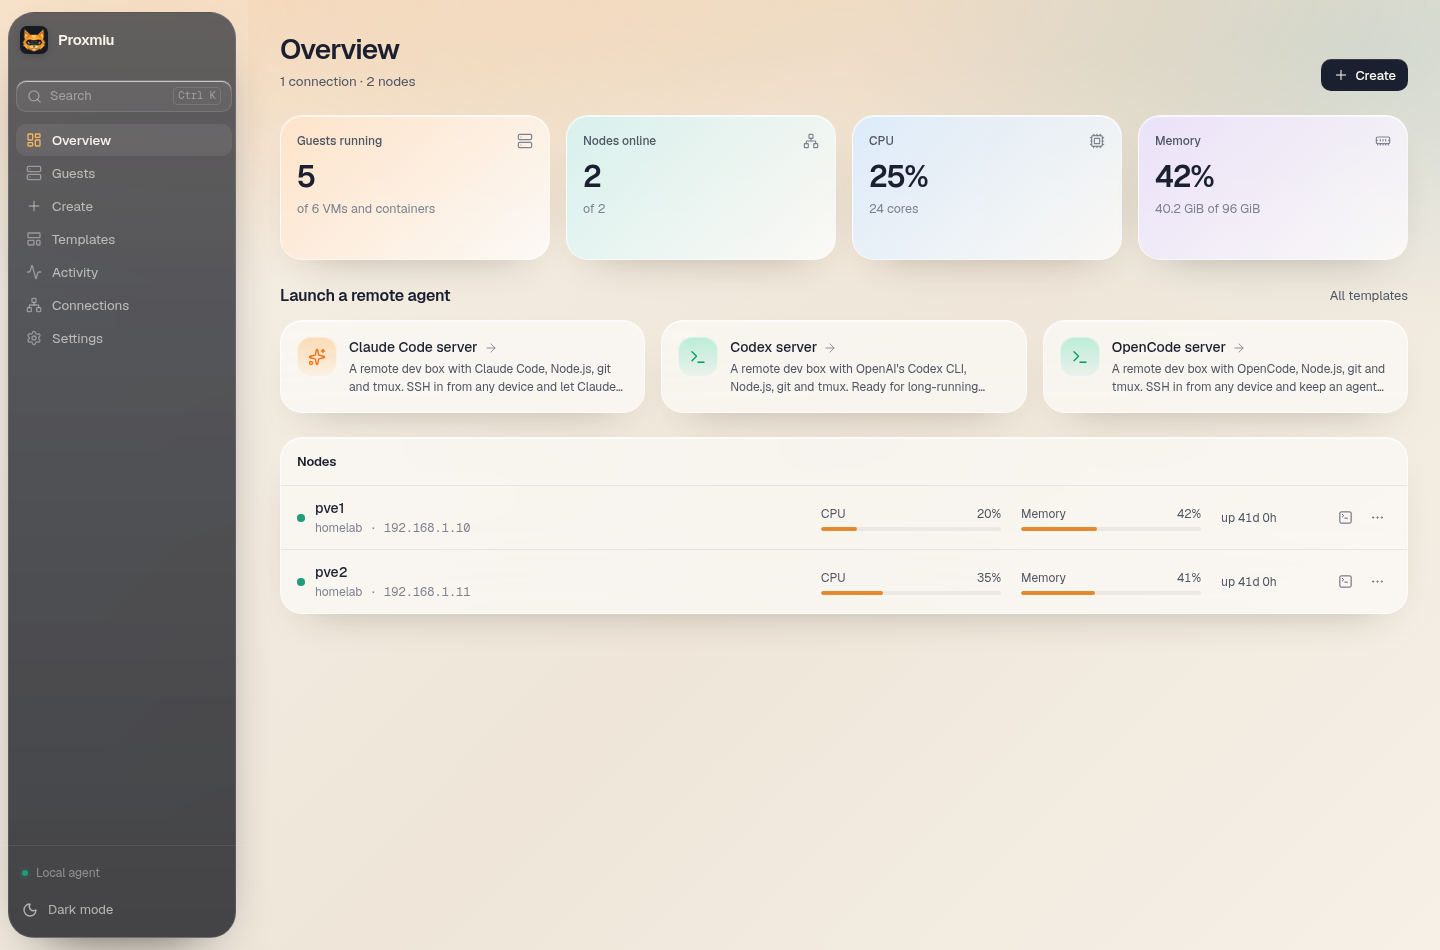
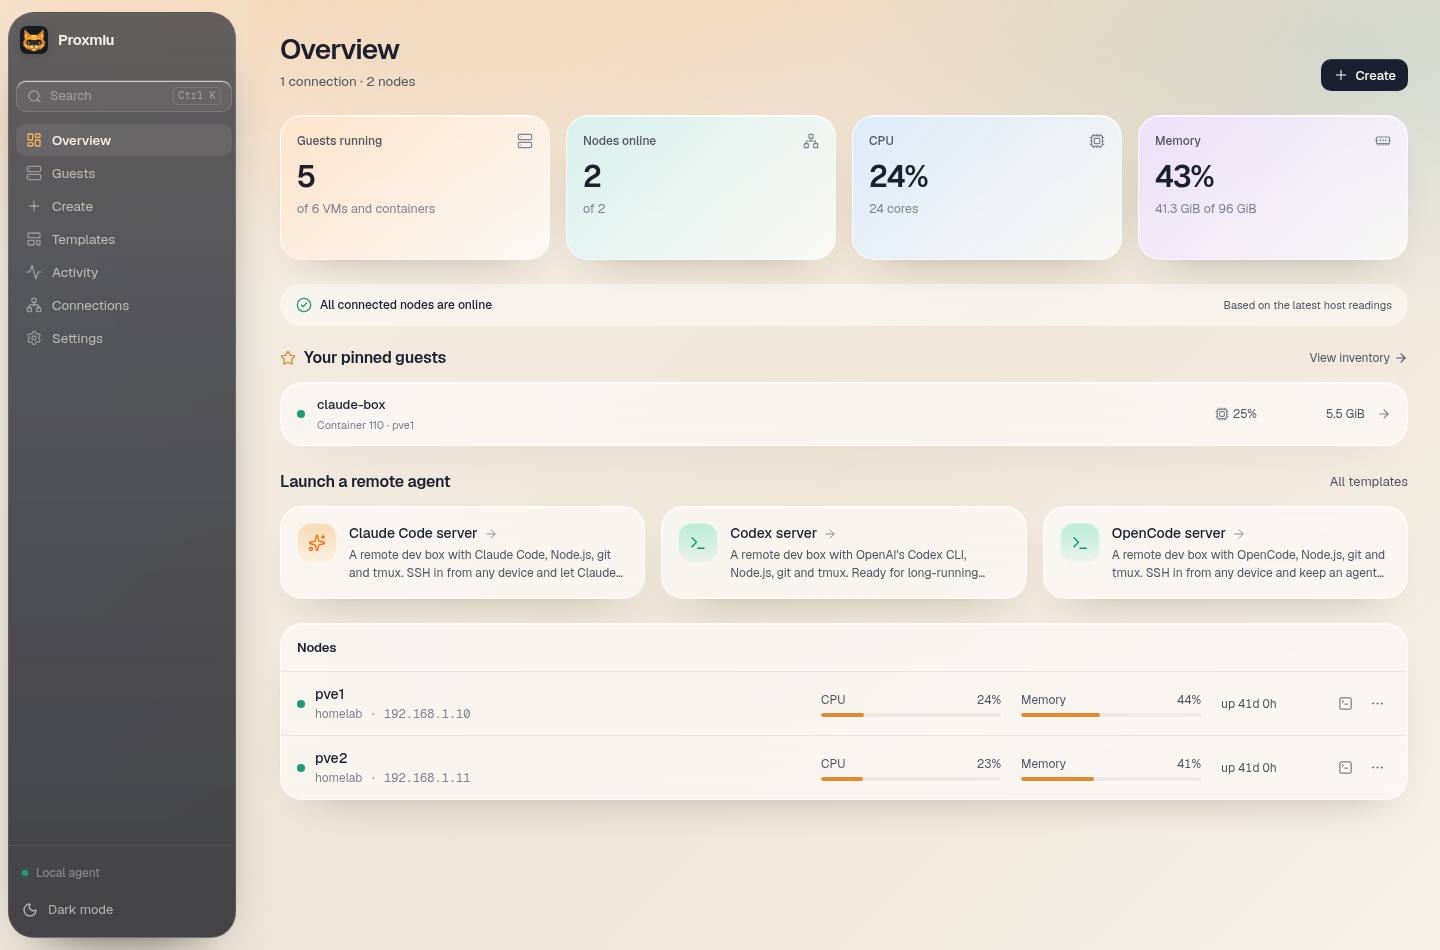
feat: showcase premium guest workspaces and refresh screenshots

diff --git a/index.html b/index.html
@@ -6,7 +6,7 @@
     <title>Proxmiu — manage Proxmox VE from the browser</title>
     <meta
       name="description"
-      content="A fast, friendly front end for Proxmox VE: power actions, browser SSH, and one-click Claude Code, Codex, OpenCode and Community Scripts guests."
+      content="A focused workspace for Proxmox VE: guest performance history, notes, pinned machines, saved views, safe bulk actions, browser SSH and one-click dev servers."
     />
     <meta name="theme-color" content="#f6f0e7" />
     <link rel="canonical" href="https://proxmiu.com/" />
@@ -16,13 +16,13 @@
     <meta property="og:title" content="Proxmiu — manage Proxmox VE from the browser" />
     <meta
       property="og:description"
-      content="Power actions, browser SSH, and ready-to-use AI dev boxes from templates. Self-hosted on your LAN."
+      content="Guest history, notes, pins, saved views and safe bulk actions. Browser SSH and ready-to-use AI dev boxes, self-hosted on your LAN."
     />
-    <meta property="og:image" content="https://proxmiu.com/screenshots/overview.png?v=9" />
+    <meta property="og:image" content="https://proxmiu.com/screenshots/overview.png?v=10" />
     <meta name="twitter:card" content="summary_large_image" />
     <meta name="twitter:title" content="Proxmiu — manage Proxmox VE from the browser" />
     <meta name="twitter:description" content="Power actions, browser SSH, and ready-to-use AI dev boxes from templates. Self-hosted on your LAN." />
-    <meta name="twitter:image" content="https://proxmiu.com/screenshots/overview.png?v=9" />
+    <meta name="twitter:image" content="https://proxmiu.com/screenshots/overview.png?v=10" />
     <link rel="icon" type="image/svg+xml" href="favicon.svg?v=lynx-1" />
     <link rel="apple-touch-icon" href="apple-touch-icon.png?v=lynx-1" />
     <link rel="stylesheet" href="styles.css" />
@@ -51,8 +51,8 @@
         <div class="eyebrow"><span class="dot"></span> Proxmox VE, without the tab hunt</div>
         <h1>Your homelab,<br /><span class="gradient">one click away.</span></h1>
         <p class="lede">
-          A fast, friendly front end for Proxmox VE. Start and stop guests, open a terminal in the browser, and turn
-          templates into ready-to-use Claude Code, Codex or OpenCode boxes — all from one place.
+          A focused workspace for Proxmox VE. Understand every guest, keep your important machines close, and handle
+          everyday work in fewer steps. Browser SSH and ready-to-use Claude Code, Codex and OpenCode boxes included.
         </p>
         <div class="cta">
           <a class="button primary" href="#install">Install on Proxmox</a>
@@ -70,8 +70,25 @@
 
       <section class="hero-stage">
         <div class="hero-shot">
-          <img src="screenshots/overview.png?v=9" alt="Proxmiu overview showing nodes, guests and live resource usage" />
+          <img src="screenshots/overview.png?v=10" alt="Proxmiu overview showing nodes, guests and live resource usage" />
         </div>
+      </section>
+
+      <section class="section workspace-feature" aria-labelledby="workspace-title">
+        <div class="workspace-story">
+          <h2 id="workspace-title">Every guest,<br /> in detail.</h2>
+          <p>Resource history, configuration and your own notes, together in a workspace for each machine.</p>
+          <ul class="workspace-benefits">
+            <li><strong>Keep the context.</strong><span>Pin the machines you reach for first. Notes and pins stay on your agent, ready from your other browsers too.</span></li>
+            <li><strong>Make the inventory yours.</strong><span>Combine status, type and node filters. Save useful views in your browser and export the visible inventory as CSV.</span></li>
+            <li><strong>Work on a few at once.</strong><span>Review selected targets, send power requests, and see an outcome for every guest.</span></li>
+          </ul>
+          <a class="button" href="#screenshots">See it in action</a>
+        </div>
+        <figure class="workspace-image">
+          <a href="screenshots/guest-detail.png?v=10" target="_blank" rel="noopener" aria-label="Open the full guest workspace screenshot"><img src="screenshots/guest-detail.png?v=10" alt="Proxmiu guest workspace showing performance history, configuration and notes" loading="lazy" width="1440" height="1200" /></a>
+          <figcaption>Real Proxmox history. Your notes. A clearer picture.</figcaption>
+        </figure>
       </section>
 
       <section id="features" class="section">
@@ -89,7 +106,7 @@
               <svg viewBox="0 0 24 24" fill="none" stroke="currentColor" stroke-width="1.7" stroke-linecap="round" stroke-linejoin="round" aria-hidden="true"><path d="M12 2v10" /><path d="M18.36 6.64a9 9 0 1 1-12.73 0" /></svg>
             </span>
             <h3>Power actions</h3>
-            <p>Start, shut down, reboot, force stop or delete a guest. Reboot or shut down a node with typed confirmation.</p>
+            <p>Start, shut down or reboot selected guests with individual results. Keep one-click actions for each machine and typed confirmation for destructive operations.</p>
           </article>
           <article class="card">
             <span class="icon">
@@ -137,37 +154,41 @@
         </div>
         <div class="shots">
           <figure class="shot-wide">
-            <img src="screenshots/guests.png?v=9" alt="Guest list with live status, addresses and actions" loading="lazy" />
-            <figcaption><strong>Guests.</strong> Live status, addresses and usage with one-click SSH, reboot and more.</figcaption>
+            <img src="screenshots/guests.png?v=10" alt="Guest list with live status, addresses and actions" loading="lazy" />
+            <figcaption><strong>Your inventory.</strong> Saved views, independent filters, pins and CSV export, with live status and quick actions.</figcaption>
           </figure>
           <figure>
-            <img src="screenshots/create.png?v=9" alt="Creating a Claude Code server from a template" loading="lazy" />
+            <img src="screenshots/bulk-actions.png?v=10" alt="Reviewed bulk power requests with an individual result for each selected guest" loading="lazy" />
+            <figcaption><strong>Clear outcomes.</strong> Review the targets before sending a batch, then see which requests were sent, failed or skipped.</figcaption>
+          </figure>
+          <figure>
+            <img src="screenshots/create.png?v=10" alt="Creating a Claude Code server from a template" loading="lazy" />
             <figcaption><strong>Create.</strong> A Claude Code server from a template, with every setting adjustable.</figcaption>
           </figure>
           <figure>
-            <img src="screenshots/settings.png?v=9" alt="Proxmiu settings with the SSH key and self-update" loading="lazy" />
+            <img src="screenshots/settings.png?v=10" alt="Proxmiu settings with the SSH key and self-update" loading="lazy" />
             <figcaption><strong>Settings and updates.</strong> Your key, access, and opt-in agent updates in one place.</figcaption>
           </figure>
           <figure class="shot-wide">
-            <img src="screenshots/command-palette.png?v=9" alt="Proxmiu command palette" loading="lazy" />
+            <img src="screenshots/command-palette.png?v=10" alt="Proxmiu command palette" loading="lazy" />
             <figcaption><strong>Command palette.</strong> Jump to any guest, template or page without leaving the keyboard.</figcaption>
           </figure>
           <figure>
-            <img src="screenshots/templates.png?v=9" alt="Proxmiu template gallery" loading="lazy" />
+            <img src="screenshots/templates.png?v=10" alt="Proxmiu template gallery" loading="lazy" />
             <figcaption><strong>Templates.</strong> Built-in AI boxes, custom recipes and Community Scripts.</figcaption>
           </figure>
           <figure>
-            <img src="screenshots/connections.png?v=9" alt="Proxmiu connections and host discovery" loading="lazy" />
+            <img src="screenshots/connections.png?v=10" alt="Proxmiu connections and host discovery" loading="lazy" />
             <figcaption><strong>Connections.</strong> Find Proxmox hosts on your LAN and keep them together.</figcaption>
           </figure>
           <figure class="shot-wide">
-            <img src="screenshots/overview-light.png?v=9" alt="Proxmiu overview in light mode" loading="lazy" />
+            <img src="screenshots/overview-light.png?v=10" alt="Proxmiu overview in light mode" loading="lazy" />
             <figcaption><strong>Light mode.</strong> The same glass language, brightened for daylight.</figcaption>
           </figure>
         </div>
         <div class="mobile-showcase">
-          <img src="screenshots/mobile-overview.png?v=9" alt="Proxmiu on an iPhone: overview" loading="lazy" />
-          <img src="screenshots/mobile-guests.png?v=9" alt="Proxmiu on an iPhone: guests" loading="lazy" />
+          <img src="screenshots/mobile-overview.png?v=10" alt="Proxmiu on an iPhone: overview" loading="lazy" />
+          <img src="screenshots/mobile-guests.png?v=10" alt="Proxmiu on an iPhone: guests" loading="lazy" />
           <div>
             <div class="eyebrow">On the go</div>
             <h3>The homelab in your pocket.</h3>

diff --git a/styles.css b/styles.css
@@ -113,6 +113,38 @@ a {
   box-shadow: 0 2px 8px -2px rgba(0, 0, 0, 0.24);
 }
 
+.workspace-feature {
+  display: grid;
+  grid-template-columns: minmax(250px, 0.8fr) minmax(0, 1.4fr);
+  align-items: center;
+  gap: clamp(28px, 5vw, 64px);
+}
+
+.workspace-story h2 {
+  margin: 0 0 20px;
+  font-size: clamp(32px, 4vw, 52px);
+  font-weight: 650;
+  line-height: 1.08;
+  letter-spacing: -0.035em;
+}
+
+.workspace-story > p { color: var(--muted); max-width: 38ch; }
+.workspace-benefits { list-style: none; padding: 0; margin: 28px 0; display: grid; gap: 22px; }
+.workspace-benefits li { display: grid; gap: 5px; font-size: 14px; }
+.workspace-benefits strong { font-weight: 650; }
+.workspace-benefits span { color: var(--muted); font-size: 13px; line-height: 1.65; max-width: 42ch; }
+.workspace-image { margin: 0; min-width: 0; }
+.workspace-image img { width: 100%; border-radius: 16px; box-shadow: 0 20px 65px -30px rgba(27, 32, 48, 0.4); }
+.workspace-image figcaption { margin-top: 12px; color: var(--muted); font-size: 12px; text-align: center; }
+@media (max-width: 800px) {
+  .workspace-feature { grid-template-columns: 1fr; }
+  .workspace-story h2 br { display: none; }
+  .workspace-benefits { grid-template-columns: repeat(3, 1fr); gap: 18px; }
+}
+@media (max-width: 540px) {
+  .workspace-benefits { grid-template-columns: 1fr; }
+}
+
 .nav-links {
   display: flex;
   align-items: center;

diff --git a/README.md b/README.md
@@ -27,6 +27,7 @@ python3 -m http.server 8080
 
 - `index.html`, `styles.css`, `app.js` — the page.
 - `screenshots/` — product screenshots pulled from the main repository.
+- Guest workspaces include Proxmox history and agent-persisted notes/pins; saved inventory views stay in each browser. Bulk requests have reviewed targets and individual outcomes.
 - `logo.png`, `apple-touch-icon.png` — amber robotic lynx branding.
 - `logo.svg`, `favicon.svg` — simplified vector companions for small sizes.
 
